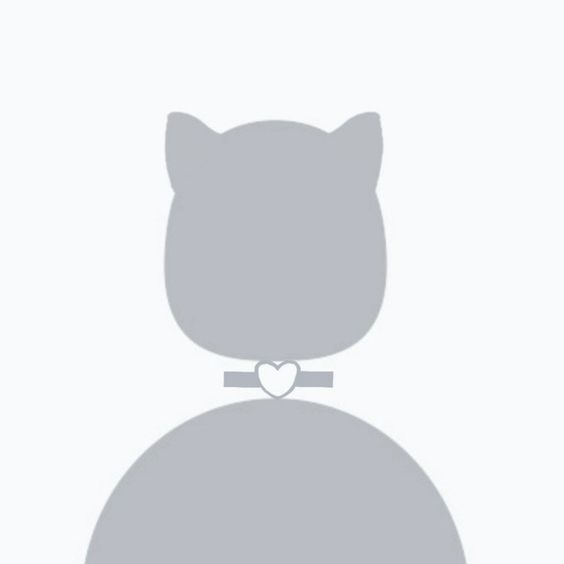
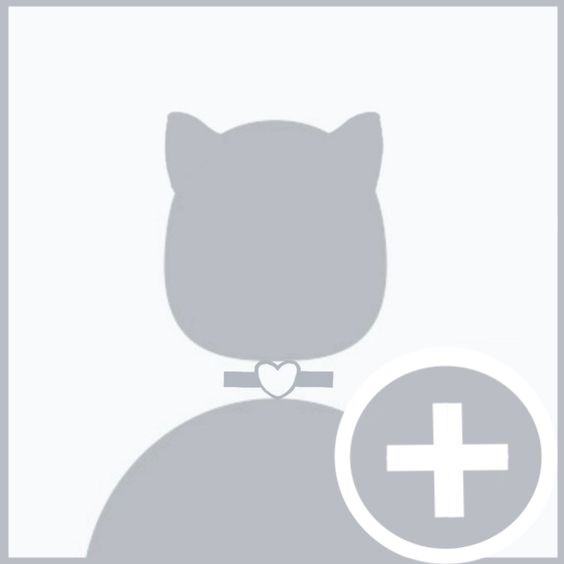
Add data to seed Likes table. Changed user_profile.html -> homepage.html. Add custom .svg file for Like.

Changed region(s): [[0.0, 0.0, 1.0, 1.0]]

diff --git a/model.py b/model.py
@@ -173,11 +173,9 @@ class Like(db.Model):
     __tablename__ = "likes"
 
     like_id = db.Column(db.Integer, autoincrement=True, primary_key=True)
-    like_type = db.Column(db.String, nullable=False)
-
     user_id = db.Column(db.Integer, db.ForeignKey("users.user_id"))
-    image_id = db.Column(db.Integer, db.ForeignKey("images.image_id"))
-    comment_id = db.Column(db.Integer, db.ForeignKey("comments.comment_id"))
+    image_id = db.Column(db.Integer, db.ForeignKey("images.image_id"), nullable=True)
+    comment_id = db.Column(db.Integer, db.ForeignKey("comments.comment_id"), nullable=True)
 
     user = db.relationship("User", backref="likes")
     image = db.relationship("Image", backref="likes")
@@ -185,6 +183,12 @@ class Like(db.Model):
 
     def __repr__(self):
         return f"<Like like_id={self.like_id} like_type={self.like_type}>"
+
+    @classmethod
+    def create(cls, user_id, image_id, comment_id):
+        """Create and return a new like."""
+
+        return cls(user_id=user_id, image_id=image_id, comment_id=comment_id)
 
 
 class Follower(db.Model):

diff --git a/server.py b/server.py
@@ -87,9 +87,23 @@ def upload_file():
     return {"url": f"{path}"}
 
 
+# @app.route("/photos.json")
+# def all_photos():
+#     """View all photos owned by logged-in user."""
+#     images_list = []
+#     print("images_list =", images_list)
+#     if "user_id" in session:
+#         user_id = session["user_id"]
+#         images = Image.get_images_by_user_id(user_id)
+#         for img_obj in images:
+#             images_list.append(img_obj.as_dict())
+#     return jsonify({"images": images_list})
+
+
 @app.route("/photos.json")
 def all_photos():
-    """View all photos owned by logged-in user."""
+    """View all photos with related info (likes) owned by logged-in user."""
+
     images_list = []
     print("images_list =", images_list)
     if "user_id" in session:

diff --git a/seed_database.py b/seed_database.py
@@ -64,3 +64,23 @@ with open("data/photos.json") as f:
 
     model.db.session.add_all(photos_in_db)
     model.db.session.commit()
+
+# Load photo data from JSON file
+with open("data/likes.json") as f:
+    like_data = json.loads(f.read())
+
+    # Create likes, store them in a list
+    likes_in_db = []
+    for like in like_data:
+        user_id, image_id, comment_id = (
+            like["user_id"],
+            like["image_id"],
+            like["comment_id"]
+        )
+
+        db_like = model.Like.create(user_id, image_id, comment_id)
+
+        likes_in_db.append(db_like)
+
+    model.db.session.add_all(likes_in_db)
+    model.db.session.commit()
